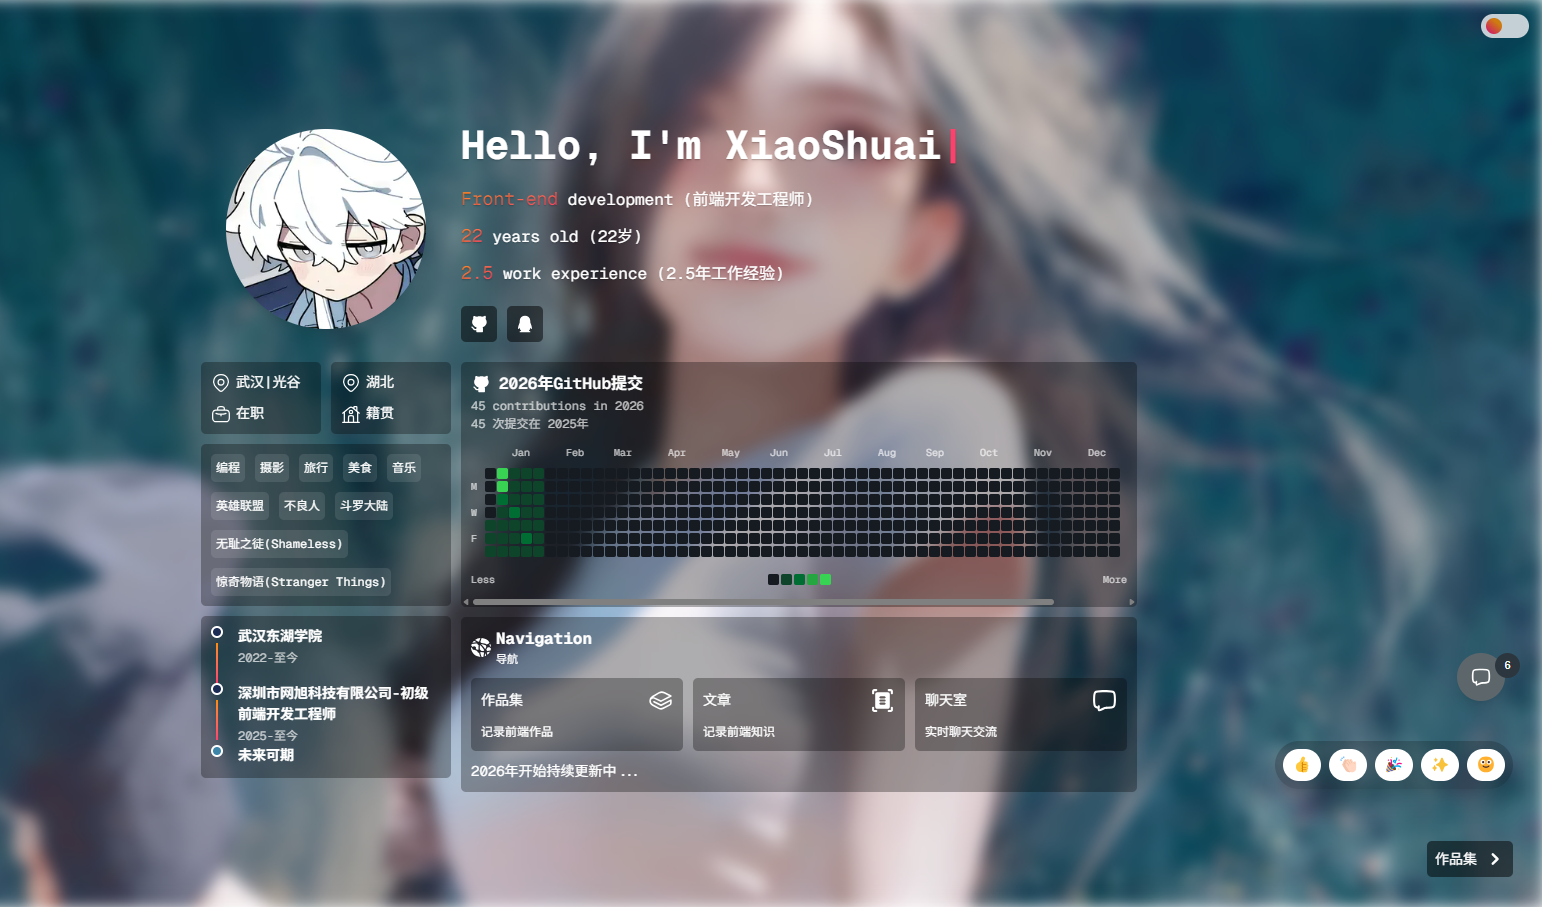
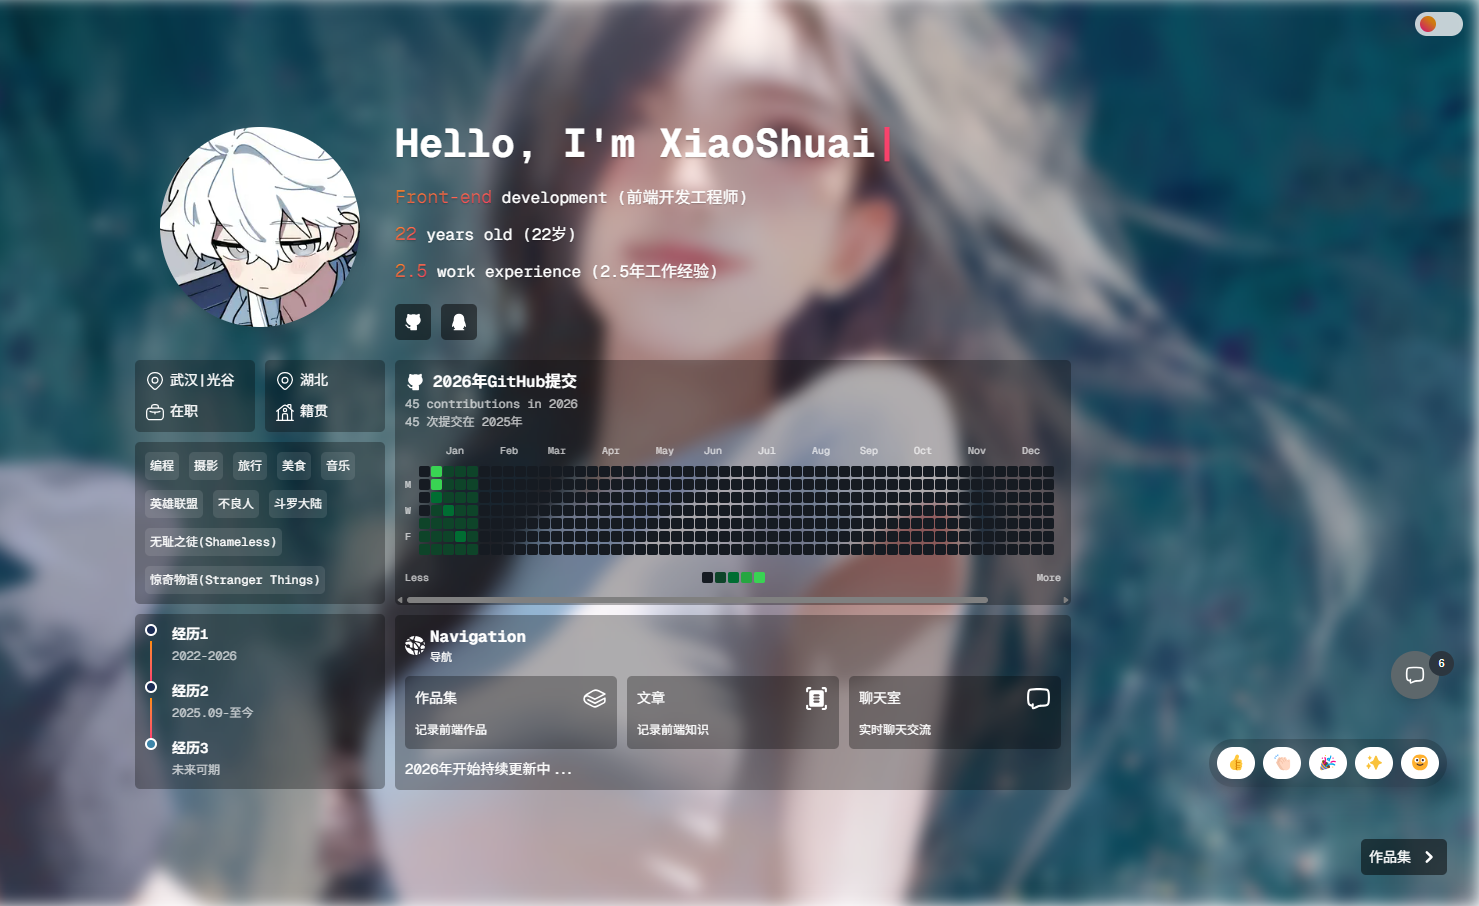
chore: 更新README

diff --git a/src/data/experience.ts b/src/data/experience.ts
@@ -7,15 +7,15 @@ export interface ExperienceItem {
 // 经历数据
 export const experienceData: ExperienceItem[] = [
   {
-    name: "武汉东湖学院",
-    date: "2022-至今",
+    name: "经历1",
+    date: "2022-2026",
   },
   {
-    name: "深圳市网旭科技有限公司-初级前端开发工程师",
-    date: "2025-至今",
+    name: "经历2",
+    date: "2025.09-至今",
   },
   {
-    name: "未来可期",
-    date: "",
+    name: "经历3",
+    date: "未来可期",
   },
 ];

diff --git a/README.md b/README.md
@@ -1,8 +1,8 @@
 <p align="center">
-  <img src="/images/dark.jpg" alt="XiaoShuai" width="120" />
+  <img src="public/images/work1.png" alt="BlogWeb"/>
 </p>
 
-<h1 align="center">XiaoShuai's Blog</h1>
+<h1 align="center">BlogWeb</h1>
 
 <p align="center">
   <a href="https://github.com/Max-Samson" target="_blank">
@@ -183,7 +183,7 @@ pnpm generate     # 生成 Prisma 客户端
 1. 如果修改表结构，则需要重新运行 `pnpm run push-db` 命令，将数据库结构推送到 neon 上
 2. 上传到您的 github 仓库时，请将.env 文件添加到.gitignore 文件中
 3. 这个只是基础模板，各位发挥自己的想象创造力打造吧！
-4. 如果遇到不懂的，请在 qq 群内联系我: 916088073
+4. 如果遇到不懂的，可以通过github或者qq联系我
 
 ## Contributing
 
